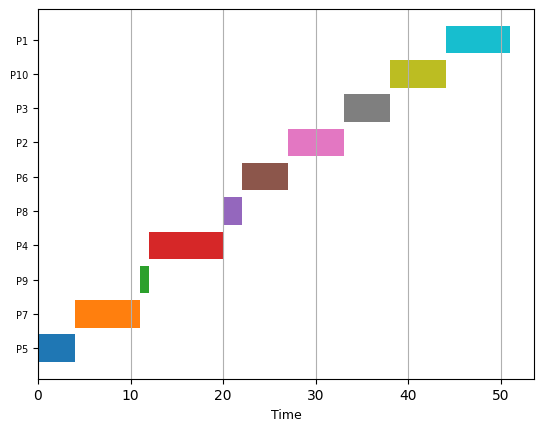
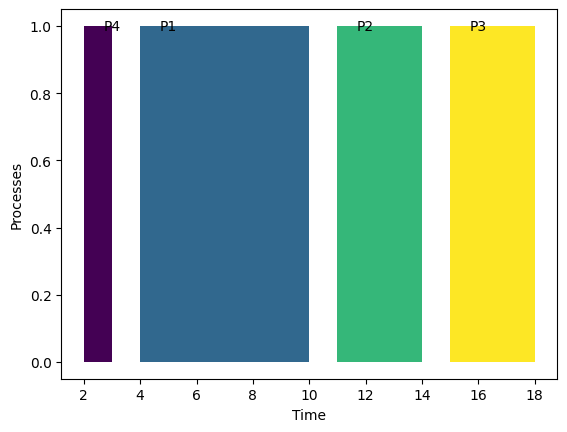
Update

diff --git a/CPU_Scheduler/PreemptivePriorityScheduling.py b/CPU_Scheduler/PreemptivePriorityScheduling.py
@@ -1,15 +1,17 @@
 from random import randint
 from copy import deepcopy
+from random import randint
+from copy import deepcopy
+from matplotlib import pyplot as plt
+import numpy as np
 
 
 
 class _PreemptivePriorityScheduling: # Class for simulating Preemptive Priority CPU Scheduling
     process_list = [] # List to Store the Processes [PID, AT, BT, RT, PL,CT]
     fourColumnProcessList = []
-    waitingTime = 0
-    turnaroundTime = 0
-    start_times = []
-    end_times = []
+    WT = 0
+    TT = 0
     
     def inputUser(self, no_of_processes): # USER INPUT
         for process_id in range(1, no_of_processes + 1): # Loop to enter user values for each process
@@ -67,91 +69,107 @@ class _PreemptivePriorityScheduling: # Class for simulating Preemptive Priority 
 
         return self.fourColumnProcessList
         
-    def schedulingProcess(self, process_list): # Scheduling Algorithm
-        start_times = []
-        end_times = []
+    def schedulingProcess(self): # Scheduling Algorithm
+        # Print input table
+        print("\nProcess\tArrival Time\tBurst Time\tPriority Level")
+        for process in self.process_list:
+            print(f"{process[0]}\t{process[1]}\t\t{process[2]}\t\t{process[4]}")
+        
         current_time = 0 # Current Time Frame
         completed_list = [] # List for completed processes
         ready_queue = [] # Memory Queue
-        
-        while len(completed_list) < len(process_list): # Loop for the Algorithm
-            for process in process_list:
+         # this is a 2 dimensional array in which [0] is the process name [1] service time [2] execution stop time
+        cur_process_data = {}
+        flag = True
+        temp = None
+        counter = 0
+        while len(completed_list) < len(self.process_list): # Loop for the Algorithm
+            for process in self.process_list:
                 if process[1] <= current_time and process not in completed_list and process not in ready_queue: # Inserting newly arrived processes to the Memory Queue
                     ready_queue.append(process)
             
-            # print(f"\nTimeframe {current_time}")
-            
+           
             if not ready_queue: # Checking for idle time
-                # print(f"R unning: None")
+                print(f"Running: None")
                 current_time += 1
                 continue # Skip rest of the algorithm if idle time
             
-            ready_queue.sort(key=lambda x: x[3]) # Sorting the ready queue based on Priority Level
+            ready_queue.sort(key=lambda x: x[4]) # Sorting the ready queue based on Priority Level
             
             current_process = ready_queue[0] # Set current process as process with highest level in memory queue
+            
             current_process[3] -= 1 # Decerement current process bust time
+            if flag:
+                cur_process_data[counter] = []
+                cur_process_data[counter].append(current_process[0])
+                cur_process_data[counter].append(current_time)
+                temp = current_process[0]
+                flag = False
+            elif temp != current_process[0]:
+                counter += 1
+                cur_process_data[counter-1].append(current_time)
+                flag = True
             
-            # Print Simulation
-            # print(f"Running: {current_process[0]}")
-            # print(f"Current Burst Time: {current_process[3]}")
-            # print(f"Priority Level: {current_process[4]}")
-            
-            # if current_process[3] == 0:
-            #     start_times.append(current_time)
-            #     end_times.append(current_time + 1)
-
-            # for i, process in enumerate(completed_list):
-            #     start_time = start_times[i]
-            #     end_time = end_times[i]
-            #     process_name = process[0]
-            #     ax.barh(process_name, end_time - start_time, left=start_time, label=process_name)
-
+           
+            if current_process[3] == 0: # Check if process is Completed
+                completed_list.append(current_process) # Append current process to completed list
+                ready_queue.pop(0) # Remove current process from ready queue
+                current_process[5] = current_time + 1 # Set completion time for current process
             
             current_time += 1 # Increment Current Time Frame
+
+
+        cur_process_data[counter].append(current_time)
+        print(cur_process_data)
+        # Initialize Totals of TT and WT
+        total_wt = 0
+        total_tt = 0
         
-
-
-        # fig, ax = plt.subplots()
-
-
-        # ax.set_xlabel('Time', fontsize=9)
-        # ax.legend(loc='center left', bbox_to_anchor=(1.0, 0.5))
-        # plt.grid(axis='x')
-        # plt.savefig("./GANTT_OUTPUT/GTChart.png", bbox_inches='tight', dpi=100)
-        # # Initialize Totals of TT and WT
-        # total_wt = 0
-        # total_tt = 0
-        
-        # for process in process_list: # Loop to calculate WT and TT of each rocess
-        #     turnaround_time = process[5] - process[1] # Calculate TT of process (Completion Time - Arrival Time)
-        #     waiting_time = turnaround_time - process[2] # Calculate WT of process (Turnaround Time - Burst Time)
+        for process in self.process_list: # Loop to calculate WT and TT of each rocess
+            turnaround_time = process[5] - process[1] # Calculate TT of process (Completion Time - Arrival Time)
+            waiting_time = turnaround_time - process[2] # Calculate WT of process (Turnaround Time - Burst Time)
             
-        #     total_wt += waiting_time # Add TT of the process to the total
-        #     total_tt += turnaround_time # Add WT of the process to the total
+            total_wt += waiting_time # Add TT of the process to the total
+            total_tt += turnaround_time # Add WT of the process to the total
         
         # Compute Averages
-        avg_wt = total_wt / len(self.process_list)
-        avg_tt = total_tt / len(self.process_list)
-        
+        avg_WT = total_wt / len(self.process_list)
+        avg_TT = total_tt / len(self.process_list)
+        print(avg_TT)
+        print(avg_WT)
+        self.WT = avg_WT
+        self.TT = avg_TT
 
-        self.waitingTime = avg_wt
-        self.turnaroundTime = avg_wt
-        return completed_list
-        # # Print table results
-        # print("\nProcess\tWaiting Time\tTurnaround Time")
-        # for process in self.process_list:
-        #     print(f"{process[0]}\t{process[5] - process[1] - process[2]}\t\t{process[5] - process[1]}")
+        return cur_process_data
 
-        # print(f"Average Waiting Time: {avg_wt}")
-        # print(f"Average Turnaround Time: {avg_tt}")
+    def plot_gantt_chart(self, cur_process_data):
+        fig, gnt = plt.subplots()
+        gnt.set_xlabel('Time')
+        gnt.set_ylabel('Processes')
 
+        try:
+            colors = plt.cm.viridis(np.linspace(0, 1, len(cur_process_data)))
 
+            for i, (key, value) in enumerate(cur_process_data.items()):
+                process_name = value[0]
+                start_time = value[1]
+                end_time = value[2]
 
-# # Main Machinery
-def runner():
+                # Use a different color for each process
+                color = colors[i]
+
+                gnt.broken_barh([(start_time, end_time - start_time)], (0, 1), facecolors=(color))
+
+                # Add process labels
+                gnt.text(start_time + 1, 1, process_name, verticalalignment='center', horizontalalignment='center', color='black')
+
+            plt.savefig("./GANTT_OUTPUT/GTChart.png", bbox_inches='tight', dpi=100)
+        except:
+            plt.savefig("./GANTT_OUTPUT/GTChart.png", bbox_inches='tight', dpi=100)
+
+# Main Machinery
+def runner(process_list):
     proseso = _PreemptivePriorityScheduling() # Create instance
-    process_list = proseso.inputRandom(10, 8)
-    proseso.schedulingProcess(process_list) # Run Scheduling Algotihm
-    
-
-runner()
+        
+    cur = proseso.schedulingProcess() # Run Scheduling Algotihm
+    proseso.plot_gantt_chart(cur)

diff --git a/CPU_Scheduler/Test_PreemptivePriorityScheduling.py b/CPU_Scheduler/Test_PreemptivePriorityScheduling.py
@@ -1,11 +1,13 @@
 from random import randint
 from copy import deepcopy
-
+from matplotlib import pyplot as plt
+import numpy as np
 
 
 class PreemptivePriorityScheduling: # Class for simulating Preemptive Priority CPU Scheduling
     process_list = [] # List to Store the Processes [PID, AT, BT, RT, PL,CT]
-    
+    WT = 0
+    TT = 0
     def inputUser(self, no_of_processes): # USER INPUT
         for process_id in range(1, no_of_processes + 1): # Loop to enter user values for each process
             temporary = [] # Temporary list to store values
@@ -127,34 +129,37 @@ class PreemptivePriorityScheduling: # Class for simulating Preemptive Priority C
             total_tt += turnaround_time # Add WT of the process to the total
         
         # Compute Averages
-        avg_wt = total_wt / len(self.process_list)
-        avg_tt = total_tt / len(self.process_list)
+        self.WT = total_wt / len(self.process_list)
+        self.TT = total_tt / len(self.process_list)
         
-        # Print table results
-        print("\nProcess\tWaiting Time\tTurnaround Time")
-        for process in self.process_list:
-            print(f"{process[0]}\t{process[5] - process[1] - process[2]}\t\t{process[5] - process[1]}")
-
-        print(f"Average Waiting Time: {avg_wt}")
-        print(f"Average Turnaround Time: {avg_tt}")
+        
 
         return cur_process_data
 
-    def plot_gantt_chart(cur_process_data):
+    def plot_gantt_chart(self, cur_process_data):
         fig, gnt = plt.subplots()
         gnt.set_xlabel('Time')
         gnt.set_ylabel('Processes')
 
-        for process_id, data in cur_process_data.items():
-            start_time = data[1]
-            end_time = data[2]
-            gnt.broken_barh([(start_time, end_time - start_time)], (process_id, 1), facecolors=('tab:blue'))
+        try:
+            colors = plt.cm.viridis(np.linspace(0, 1, len(cur_process_data)))
 
-            # Add process labels
-            gnt.text(start_time + 0.5, process_id + 0.5, f'P{process_id}', verticalalignment='center', horizontalalignment='center')
+            for i, (key, value) in enumerate(cur_process_data.items()):
+                process_name = value[0]
+                start_time = value[1]
+                end_time = value[2]
 
-        plt.show()
+                # Use a different color for each process
+                color = colors[i]
 
+                gnt.broken_barh([(start_time, end_time - start_time)], (0, 1), facecolors=(color))
+
+                # Add process labels
+                gnt.text(start_time + 1, 1, process_name, verticalalignment='center', horizontalalignment='center', color='black')
+
+            plt.show()
+        except:
+            plt.show()
 
 
 # Main Machinery

diff --git a/CPU_Scheduler/main.py b/CPU_Scheduler/main.py
@@ -92,6 +92,15 @@ class ToplevelWindow(customtkinter.CTkToplevel):
         
 
     def backToMain(self):
+        global data
+        global WT
+        global TT
+        global NP
+
+        data = []
+        WT = 0
+        TT = 0
+        NP = 0
         self.destroy()
 
 class OptionWindow(customtkinter.CTkFrame): # Amo adi an window kun hain naka butang an mga buttons
@@ -130,19 +139,7 @@ class OptionWindow(customtkinter.CTkFrame): # Amo adi an window kun hain naka bu
     def setBT(self, value):
         self.BTSlider_CurValue.configure(text=math.trunc(value))
     
-    # def generateGC_PPS(self, completed_list, start_times, end_times):
-    #     fig, ax = plt.subplots()
-    #     print(completed_list)
-    #     for i, process in enumerate(completed_list):
-    #         start_time = start_times[i]
-    #         end_time = end_times[i]
-    #         process_name = process[0]
-    #         ax.barh(process_name, end_time - start_time, left=start_time, label=process_name)
 
-    #     ax.set_xlabel('Time', fontsize=9)
-    #     ax.legend(loc='center left', bbox_to_anchor=(1.0, 0.5))
-    #     plt.grid(axis='x')
-    #     plt.savefig("./GANTT_OUTPUT/GTChart.png", bbox_inches='tight', dpi=100)
     
     def GenerateGANTT_Chart(self, processList, process_Timing):
         fig, ax = plt.subplots()
@@ -167,16 +164,18 @@ class OptionWindow(customtkinter.CTkFrame): # Amo adi an window kun hain naka bu
         if self.AlgoMenu.get() == "Preemptive Priority Scheduling":
             
             processList = self.PPS_Instance.inputRandom(int(self.Process_Input.get()), math.trunc(self.Burst_Time.get()))
-            completed_list = PreemptivePriorityScheduling.runner(processList)
-            # WT = self.PPS_Instance.waitingTime
-            # TT = self.PPS_Instance.turnaroundTime
-            print(completed_list)
+            PreemptivePriorityScheduling.runner(processList)
+            WT = self.PPS_Instance.WT
+            TT = self.PPS_Instance.TT
+            print(WT)
+            print(TT)
            
         elif self.AlgoMenu.get() == "Non-Preemtive Priotity Scheduling":
             processList = self.NonPPS_Instance.Random_Input(int(self.Process_Input.get()), math.trunc(self.Burst_Time.get()))
             processTiming = self.NonPPS_Instance.Execute(processList)
             WT = self.NonPPS_Instance.waitingTime
             TT = self.NonPPS_Instance.turnaroundTime
+            
             self.GenerateGANTT_Chart(processList, processTiming)
         
         ## The two lines below are used sa printing of process table
